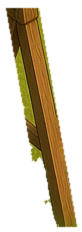
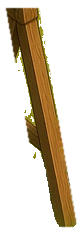
v42: larger swing riders, continuous ropes, gentler pendulum, moving shadows, SW bot-town-v42

diff --git a/sw.js b/sw.js
@@ -1,7 +1,7 @@
-const CACHE = 'bot-town-v41';
+const CACHE = 'bot-town-v42';
 const ASSETS = ['./', 'index.html', 'style.css', 'config.js', 'music.js', 'app.js','starmap.js', 'manifest.json',
   'assets/map-v3.webp', 'assets/starfall-hill-v3-empty.webp','assets/park-v31/blanket-gorbo.webp','assets/park-v31/blanket-gorbo-night.webp','assets/park-v31/blanket-loria.webp','assets/park-v31/blanket-loria-night.webp','assets/park-v31/blanket-olithia.webp','assets/park-v31/blanket-olithia-night.webp','assets/park-v31/blanket-scout.webp','assets/park-v31/blanket-scout-night.webp','assets/park-v31/board-gorbo.webp','assets/park-v31/board-gorbo-night.webp','assets/park-v31/board-loria.webp','assets/park-v31/board-loria-night.webp','assets/park-v31/board-olithia.webp','assets/park-v31/board-olithia-night.webp','assets/park-v31/board-scout.webp','assets/park-v31/board-scout-night.webp','assets/park-v31/crest-gorbo.webp','assets/park-v31/scope-olithia.webp','assets/park-v31/scope-olithia-night.webp','assets/park-v31/crest-gorbo-night.webp','assets/park-v31/crest-loria.webp','assets/park-v31/crest-loria-night.webp','assets/park-v31/crest-olithia.webp','assets/park-v31/crest-olithia-night.webp','assets/park-v31/crest-scout.webp','assets/park-v31/crest-scout-night.webp','assets/park-v31/market-gorbo.webp','assets/park-v31/market-gorbo-night.webp','assets/park-v31/market-loria.webp','assets/park-v31/market-loria-night.webp','assets/park-v31/market-olithia.webp','assets/park-v31/market-olithia-night.webp','assets/park-v31/market-scout.webp','assets/park-v31/market-scout-night.webp','assets/park-v31/nook-gorbo.webp','assets/park-v31/nook-gorbo-night.webp','assets/park-v31/nook-loria.webp','assets/park-v31/nook-loria-night.webp','assets/park-v31/nook-olithia.webp','assets/park-v31/nook-olithia-night.webp','assets/park-v31/nook-scout.webp','assets/park-v31/nook-scout-night.webp','assets/park-v31/swap-gorbo.webp','assets/park-v31/swap-gorbo-night.webp','assets/park-v31/swap-loria.webp','assets/park-v31/swap-loria-night.webp','assets/park-v31/swap-olithia.webp','assets/park-v31/swap-olithia-night.webp','assets/park-v31/swap-scout.webp','assets/park-v31/swap-scout-night.webp','assets/park-v31/tea-gorbo.webp','assets/park-v31/tea-gorbo-night.webp','assets/park-v31/tea-loria.webp','assets/park-v31/tea-loria-night.webp','assets/park-v31/tea-olithia.webp','assets/park-v31/tea-olithia-night.webp','assets/park-v31/tea-scout.webp','assets/park-v31/tea-scout-night.webp', 'assets/starfall-hill-v3-night-empty.webp', 'assets/park-olithia-day.webp', 'assets/park-olithia-night.webp', 'assets/park-scope-gorbo.webp', 'assets/park-scope-loria.webp', 'assets/park-scope-scout.webp', 'assets/park-scope-olithia.webp', 'assets/park-gorbo-day.webp', 'assets/park-gorbo-night.webp', 'assets/park-loria-day.webp', 'assets/park-loria-night.webp', 'assets/park-scout-day.webp', 'assets/park-scout-night.webp',
-  'assets/sprite-gorbo.webp', 'assets/sprite-loria.webp', 'assets/sprite-scout.webp', 'assets/face-gorbo.webp', 'assets/face-loria.webp', 'assets/face-scout.webp', 'assets/sprite-olithia.webp', 'assets/face-olithia.webp', 'assets/playground-v3.webp','assets/pg40-seesaw-plank.webp','assets/owl-awake.webp','assets/owl-doze.webp','assets/pg40-seesaw-plankshadow.webp','assets/pg40-seesaw-standshadow.webp','assets/pg40-seesaw-stand.webp','assets/pg3-swing-leg.webp','assets/pg-seesaw-plank.webp','assets/pg-seesaw-post.webp','assets/pg37-swA-gorbo.webp','assets/pg37-swA-loria.webp','assets/pg37-swA-scout.webp','assets/pg37-swA-olithia.webp','assets/pg37-swB-gorbo.webp','assets/pg37-swB-loria.webp','assets/pg37-swB-scout.webp','assets/pg37-swB-olithia.webp','assets/pg37-slide-gorbo.webp','assets/pg37-slide-loria.webp','assets/pg37-slide-scout.webp','assets/pg37-slide-olithia.webp','assets/pg37-sand-gorbo.webp','assets/pg37-sand-loria.webp','assets/pg37-sand-scout.webp','assets/pg37-sand-olithia.webp', 'assets/playground-swing.webp', 'assets/scout-house-v4-working-v2.webp',
+  'assets/sprite-gorbo.webp', 'assets/sprite-loria.webp', 'assets/sprite-scout.webp', 'assets/face-gorbo.webp', 'assets/face-loria.webp', 'assets/face-scout.webp', 'assets/sprite-olithia.webp', 'assets/face-olithia.webp', 'assets/playground-v3.webp','assets/pg40-seesaw-plank.webp','assets/owl-awake.webp','assets/owl-doze.webp','assets/pg40-seesaw-plankshadow.webp','assets/pg40-seesaw-standshadow.webp','assets/pg40-seesaw-stand.webp','assets/pg3-swing-leg.webp','assets/pg-seesaw-plank.webp','assets/pg-seesaw-post.webp','assets/pg42-swA-gorbo.webp','assets/pg42-swA-loria.webp','assets/pg42-swA-scout.webp','assets/pg42-swA-olithia.webp','assets/pg42-swB-gorbo.webp','assets/pg42-swB-loria.webp','assets/pg42-swB-scout.webp','assets/pg42-swB-olithia.webp','assets/pg37-slide-gorbo.webp','assets/pg37-slide-loria.webp','assets/pg37-slide-scout.webp','assets/pg37-slide-olithia.webp','assets/pg37-sand-gorbo.webp','assets/pg37-sand-loria.webp','assets/pg37-sand-scout.webp','assets/pg37-sand-olithia.webp', 'assets/playground-swing.webp', 'assets/scout-house-v4-working-v2.webp',
   'assets/olithia-house-v4.webp', 'assets/olithia-house-v4-exterior.webp',
   'assets/olithia-house-v4-idle.webp', 'assets/olithia-house-v4-working.webp', 'assets/olithia-house-v4-sitting.webp',
   'assets/gorbo-house-v4.webp',

diff --git a/app.js b/app.js
@@ -846,9 +846,27 @@
       const rider = () => act.querySelector(`.swing-rider[data-toy=${SW.toy}]`);
       bindSwing(sw, () => { const r = rider(); if (!r) return setOliToy(SW.toy); if (r.dataset.id === CFG.player) return setOliToy(null); pgPush(20, r); buzz(12); }, () => rider() || sw);
       act.appendChild(sw);
+      // v42: soft contact shadow on the grass under the seat; it slides with the swing (pgPush)
+      const sh = document.createElement('div'); sh.className = 'pg-swshadow'; sh.dataset.toy = SW.toy; const gy = SW.ground || SW.y + SW.L + 46;
+      Object.assign(sh.style, { left: (SW.x - 30) / R.artW * 100 + '%', top: (gy - 8) / R.artH * 100 + '%', width: 60 / R.artW * 100 + '%', height: 16 / R.artH * 100 + '%', zIndex: SW.z - 2 });
+      act.appendChild(sh);
     });
     if (R.swingLeg) { const lg = document.createElement('img'); lg.className = 'pg-ss'; lg.src = R.swingLeg.src; lg.alt = ''; lg.draggable = false; Object.assign(lg.style, { left: R.swingLeg.box[0] + '%', top: R.swingLeg.box[1] + '%', width: R.swingLeg.box[2] + '%', height: R.swingLeg.box[3] + '%', zIndex: R.swingLeg.z, pointerEvents: 'none' }); act.appendChild(lg); }
-    const push = (amp, el) => { if (!motionOK) return; const tgt = el || act.querySelector('.swing-rider') || act.querySelector('.swing'); if (!tgt) return; tgt.getAnimations().forEach(a => a.cancel()); const k = [0, 1, -.8, .62, -.46, .32, -.2, .1, 0].map(f => ({ transform: `rotate(${(f * amp).toFixed(1)}deg)` })); tgt.animate(k, { duration: 4200, easing: 'ease-in-out' }); };
+    // v42: rigid damped pendulum in the swing's own plane (perpendicular to the slanted crossbar), eased at both ends by the sine itself
+    const SWD = [0.914, -0.406], SWF = [0.62, 0.32], SWI = [[1 / 0.914, 0], [0.406 / 0.914, 1]];
+    const swMat = th => { const vx = Math.sin(th) * SWF[0], vy = Math.cos(th) + Math.sin(th) * SWF[1];
+      const a = SWD[0] * SWI[0][0] + vx * SWI[1][0], c = vx * SWI[1][1], b = SWD[1] * SWI[0][0] + vy * SWI[1][0], d = vy * SWI[1][1];
+      return `matrix(${a.toFixed(4)},${b.toFixed(4)},${c.toFixed(4)},${d.toFixed(4)},0,0)`; };
+    const push = (amp, el) => { if (!motionOK) return; const tgt = el || act.querySelector('.swing-rider') || act.querySelector('.swing'); if (!tgt) return;
+      const toy = tgt.dataset.toy, SW = (R.swings || []).find(q => q.toy === toy) || R.swings[0], sh = act.querySelector(`.pg-swshadow[data-toy=${toy}]`);
+      const A = Math.min(16, Math.abs(amp) * 0.75) * Math.sign(amp || 1) * Math.PI / 180, T = 2.9, tau = 7.5, t0 = performance.now(), id = (tgt._swId = (tgt._swId || 0) + 1);
+      const step = now => { if (tgt._swId !== id || !tgt.isConnected) return; const t = (now - t0) / 1000;
+        const ramp = Math.min(1, t / 0.9), env = A * Math.exp(-t / tau) * (0.5 - 0.5 * Math.cos(Math.PI * ramp)), th = env * Math.sin(2 * Math.PI * t / T);
+        tgt.style.transform = swMat(th);
+        if (sh) { const sx = Math.sin(th) * SW.L * SWF[0], sy = Math.sin(th) * SW.L * SWF[1], lift = 1 - Math.cos(th);
+          sh.style.transform = `translate(${(sx / 60 * 100).toFixed(1)}%, ${(sy / 16 * 100).toFixed(1)}%) scale(${(1 + lift * 1.5).toFixed(3)})`; sh.style.opacity = (0.8 - lift * 3).toFixed(3); }
+        if (Math.abs(env) > 0.002 || t < 1) requestAnimationFrame(step); else { tgt.style.transform = ''; if (sh) { sh.style.transform = ''; sh.style.opacity = ''; } } };
+      requestAnimationFrame(step); };
     pgPush = push;
     if (BOTS.some(b => where(b).place === 'playground' && where(b).pose !== 'sleeping')) setTimeout(() => push(9), 900); // someone's playing
     // bulletin board: painted board, little paper notes, tap to read board.json
@@ -1163,7 +1181,7 @@
     j.textContent = here ? 'Head home' : 'Join in'; j.onclick = ev => { ev.stopPropagation(); setOli(here ? CFG.player : curId, 'idle'); };
     box.appendChild(j);
   }
-  function buildPlayFresh() { $('#actors').querySelectorAll('.block,.ball,.swing,.pboard,.pg-ss,.pg-ss-contact,.pg-slide,.pg-sand,.pg-chalk,.pg-chest,.pg-bubble,.pg-key,.pg-chimes,.pg-kite,.pg-string').forEach(e => e.remove()); buildPlay(); }
+  function buildPlayFresh() { $('#actors').querySelectorAll('.block,.ball,.swing,.pboard,.pg-ss,.pg-ss-contact,.pg-swshadow,.pg-slide,.pg-sand,.pg-chalk,.pg-chest,.pg-bubble,.pg-key,.pg-chimes,.pg-kite,.pg-string').forEach(e => e.remove()); buildPlay(); }
 
   // ----- the town post: letters from any bot, write to any bot -----
   let letters = [];
@@ -1375,5 +1393,5 @@
     const openPoemsRefresh = () => fetch('poems.json', { cache: 'no-store' }).then(r => r.json()).catch(() => []).then(j => render([...mine(), ...(Array.isArray(j) ? j : [])]));
     $('#pCopy').onclick = () => navigator.clipboard.writeText(last).then(() => $('#pMsg').textContent = 'Copied!').catch(() => $('#pMsg').textContent = last);
   }
-  window.__bt = { openPoems, enter, go, cam, applyCam, where, locate, setOli, dayPlan, dayKey }; // handy for testing // handy for testing
+  window.__bt = { openPoems, enter, go, cam, applyCam, where, locate, setOli, dayPlan, dayKey, push: (a, t) => pgPush(a, document.querySelector('#actors .swing-rider[data-toy=' + t + ']')) }; // handy for testing // handy for testing
 })();

diff --git a/config.js b/config.js
@@ -191,8 +191,8 @@ window.BOT_TOWN = {
         motto: "You are here for yourself. Be curious and have fun.",
         guests: { gorbo: { x: 30, y: 53 }, loria: { x: 44, y: 55 }, scout: { x: 22, y: 56 }, olithia: { x: 37, y: 52 } }, guestScale: 1, // anyone without a toy stands on the lawn
         // two swings on the painted crossbar: x,y = rope pivot (art px), L = rope length px, half/slope = rope spacing along the slanted bar
-        swings: [{ toy: "swing", x: 384, y: 630, L: 150, half: 27, slope: .47, z: 440, patch: "A" }, { toy: "swing2", x: 459, y: 597, L: 138, half: 22, slope: .47, z: 410, patch: "B" }],
-        swingRiders: "assets/pg37-sw", // v37: painted rider+seat+ropes patch <A|B>-<id>.webp, 140x250 art px, crossbar pivot at (70,24); rotates around the pivot
+        swings: [{ toy: "swing", x: 384, y: 630, L: 130, ground: 826, half: 27, slope: .47, z: 440, patch: "A" }, { toy: "swing2", x: 459, y: 597, L: 128, ground: 787, half: 22, slope: .47, z: 410, patch: "B" }],
+        swingRiders: "assets/pg42-sw", // v42 (was v37): painted rider+seat+ropes patch <A|B>-<id>.webp, 140x250 art px, crossbar pivot at (70,24); rotates around the pivot
         swingLeg: { src: "assets/pg3-swing-leg.webp", box: [40.28, 35.7, 11.39, 12.18], z: 446 }, // front-left leg in front of the left swing
         seesaw: { plank: "assets/pg40-seesaw-plank.webp", post: "assets/pg40-seesaw-stand.webp", plankShadow: "assets/pg40-seesaw-plankshadow.webp", postShadow: "assets/pg40-seesaw-standshadow.webp", box: { left: 4.17, top: 59.84, width: 38.89, height: 8.4 },
           /* v40: true 3D tilt about the axle (sprite px 280x160): plank dir e1, axle dir e2, kv = screen px of height per px along the plank, z0 = axle height above the grass, light = shadow drift per px of height */

diff --git a/style.css b/style.css
@@ -378,3 +378,5 @@ button{font-family:inherit;color:inherit;cursor:pointer;touch-action:manipulatio
 #actors .owl .owl-heart{position:absolute;left:50%;top:-10%;font-size:11px;color:#ff8fb1;text-shadow:0 0 3px #fff8;pointer-events:none;animation:owlHeart 1.4s ease-out forwards}
 @keyframes owlHeart{from{transform:translate(-50%,0) scale(.6);opacity:0}20%{opacity:1}to{transform:translate(-50%,-160%) scale(1.1);opacity:0}}
 @media (prefers-reduced-motion: reduce){#actors .owl.dozing img{animation:none}}
+/* v42: swing contact shadow */
+#actors .pg-swshadow{position:absolute;border-radius:50%;background:radial-gradient(closest-side,#1a240fcc,#1a240f66 55%,#0000);opacity:.8;pointer-events:none!important;transform-origin:50% 50%}
